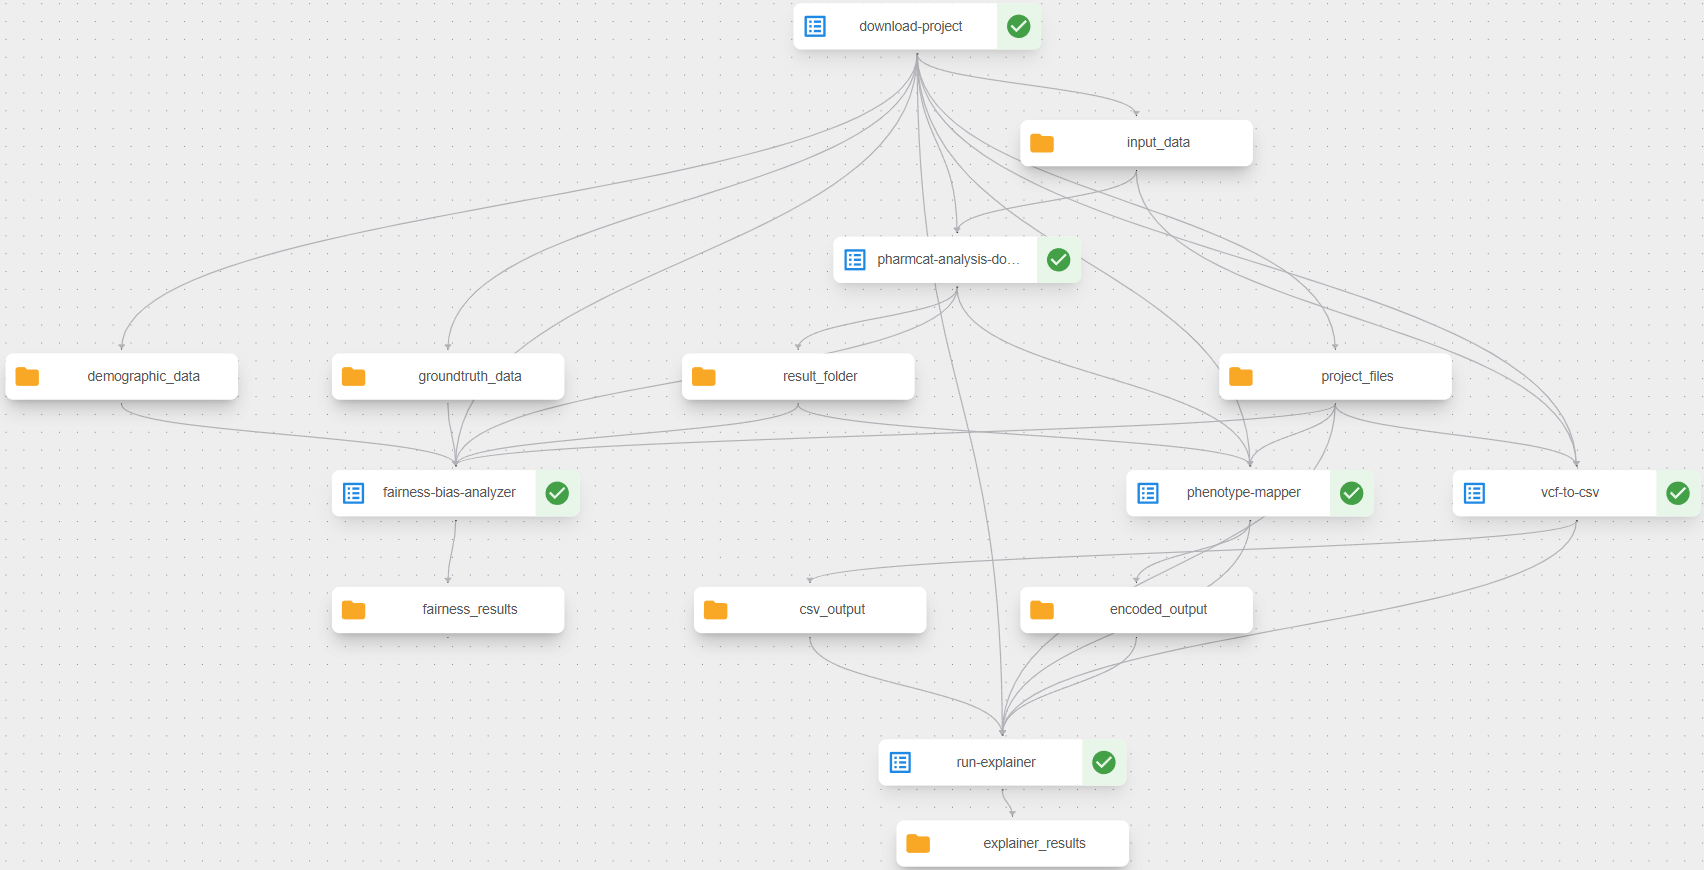
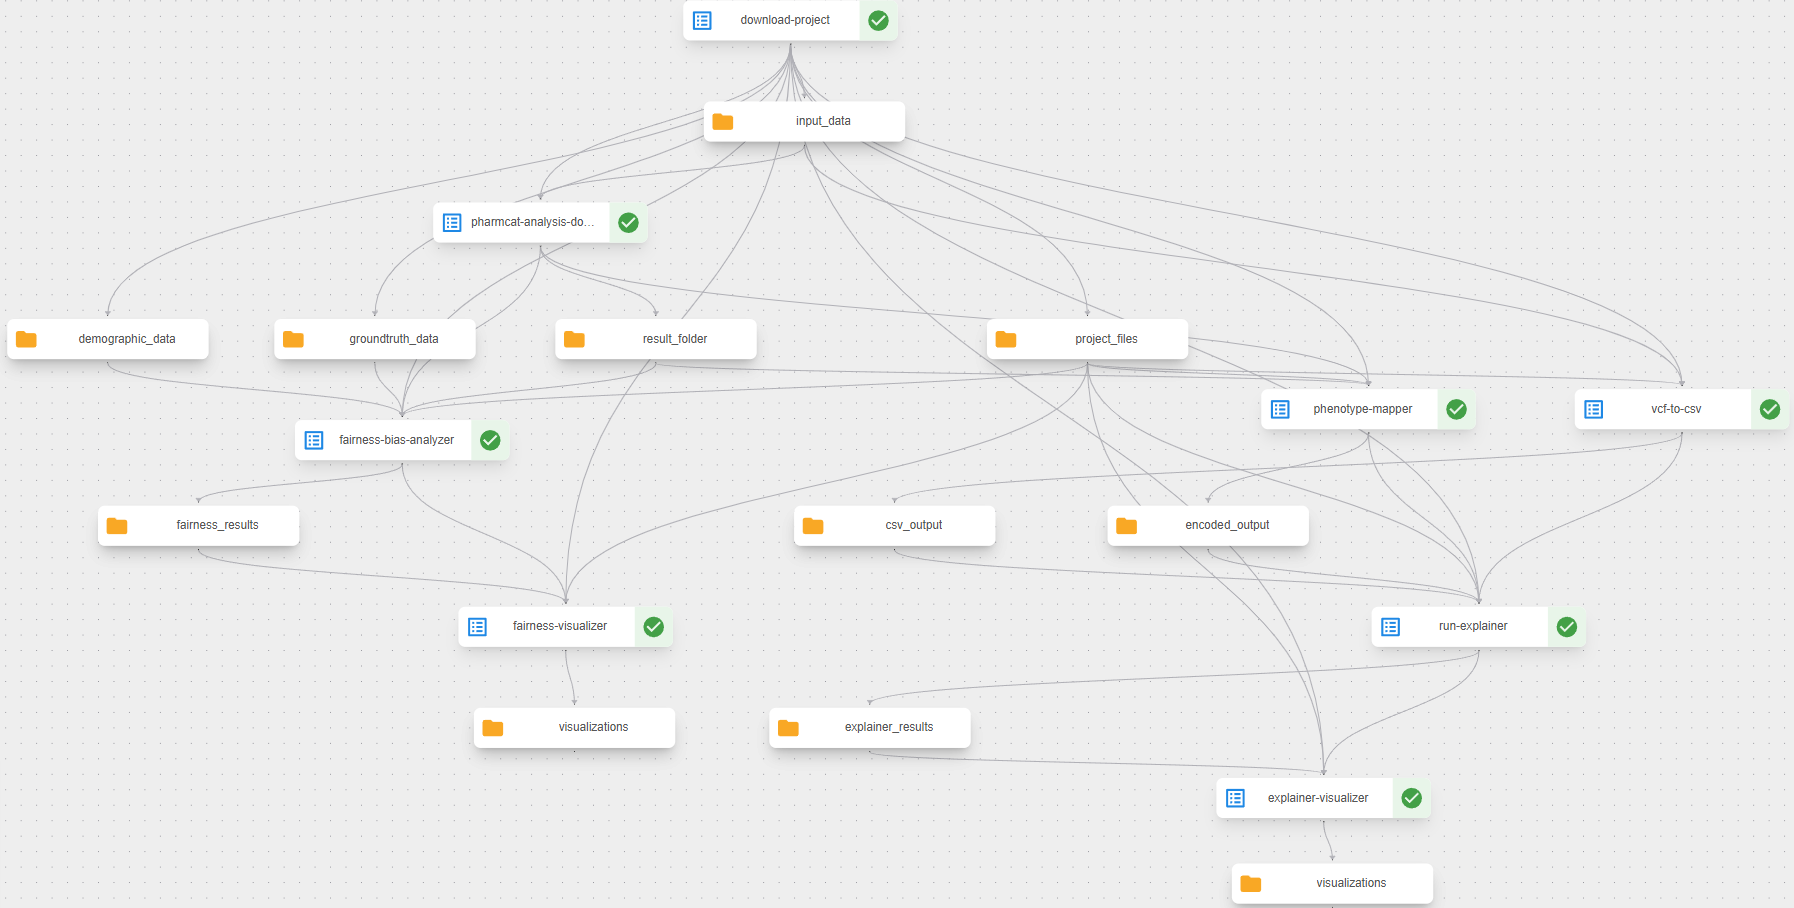
Update README and pipeline image

diff --git a/README.md b/README.md
@@ -295,10 +295,14 @@ This script processes the output from `fairness_bias_analyzer.py` and generates:
 
 The `pgx_pipeline_component.py` file defines a Kubeflow pipeline for automating the pharmacogenomics analysis workflow. This pipeline orchestrates the following components:
 
-1. **Download Component**: Downloads project files, input data, demographic and ground truth data from a specified GitHub repository. The pipeline expects the repo to contain the `Demographics/`, `Groundtruth/` and `data/` folders at its root with all required files placed inside.
-2. **PharmCAT Analysis**: Executes the PharmCAT analysis in a Docker container, processing VCF files and generating phenotype predictions. The docker image is built using the provided Dockerfile and all required files and scripts by VITO, and is uploaded to an image hosting repository.
-3. **Explainability Analysis**: Applies either categorical association analysis or mutual information analysis based on the input sensitivity value, to explain the PharmCAT predictions.
-4. **Fairness Analysis**: Evaluates potential bias in the PharmCAT predictions across demographic groups.
+1. **Download Component** (`download_project`): Downloads project files, input data, demographic and ground truth data from a specified GitHub repository. The pipeline expects the repo to contain the `Demographics/`, `Groundtruth/` and `data/` folders at its root with all required files placed inside.
+2. **PharmCAT Analysis** (`pharmcat_analysis_docker`): Executes the PharmCAT analysis in a Docker container, processing VCF files and generating phenotype predictions. The docker image is built using the provided Dockerfile and all required files and scripts by VITO, and is uploaded to an image hosting repository.
+3. **VCF to CSV Conversion** (`vcf_to_csv`): Converts VCF genetic data files to analyzable CSV format by extracting essential genetic variant information.
+4. **Phenotype Mapping** (`phenotype_mapper`): Maps PharmCAT phenotype predictions to numeric values for downstream analysis.
+5. **Explainability Analysis** (`run_explainer`): Applies either categorical association analysis or mutual information analysis based on the input sensitivity value, to explain the PharmCAT predictions.
+6. **Fairness Analysis** (`fairness_bias_analyzer`): Evaluates potential bias in the PharmCAT predictions across demographic groups.
+7. **Explainer Visualization** (`explainer_visualizer`): Generates visual representations of the explainability analysis results, including feature importance plots and heatmaps.
+8. **Fairness Visualization** (`fairness_visualizer`): Creates visual representations of fairness metrics, including equalized odds and demographic parity visualizations.
 
 **IMPORTANT:** You need to modify the `pharmcat_analysis_docker` function in the `pgx_pipeline_component.py` file to specify your PharmCAT Docker image:
 
